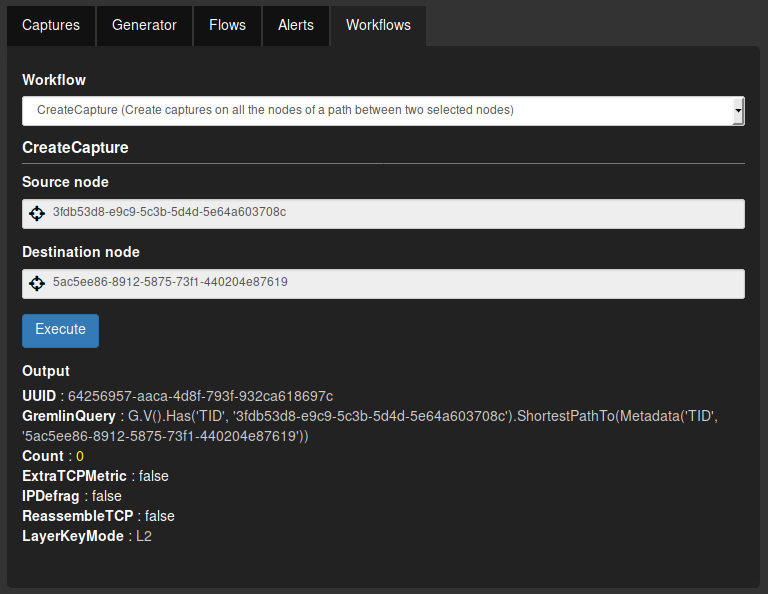
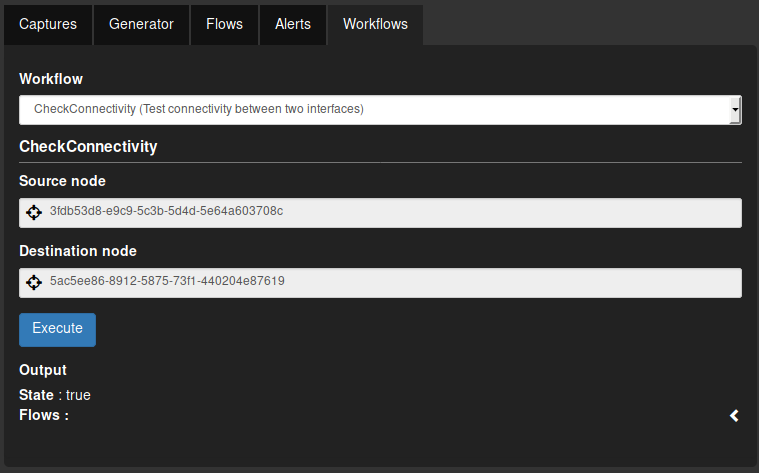
Fix workflow screenshot and command line

diff --git a/blog/introduction-to-workflows.md b/blog/introduction-to-workflows.md
@@ -266,7 +266,7 @@ Our workflow returns an object with:
 Let's upload our complete workflow:
 
 {% highlight shell %}
-$ skydive client workflow create --path create-capture.yml
+$ skydive client workflow create --path check-connectivity.yml
 {% endhighlight %}
 
 Finally, let's run our workflow using the WebUI will give the following output:
